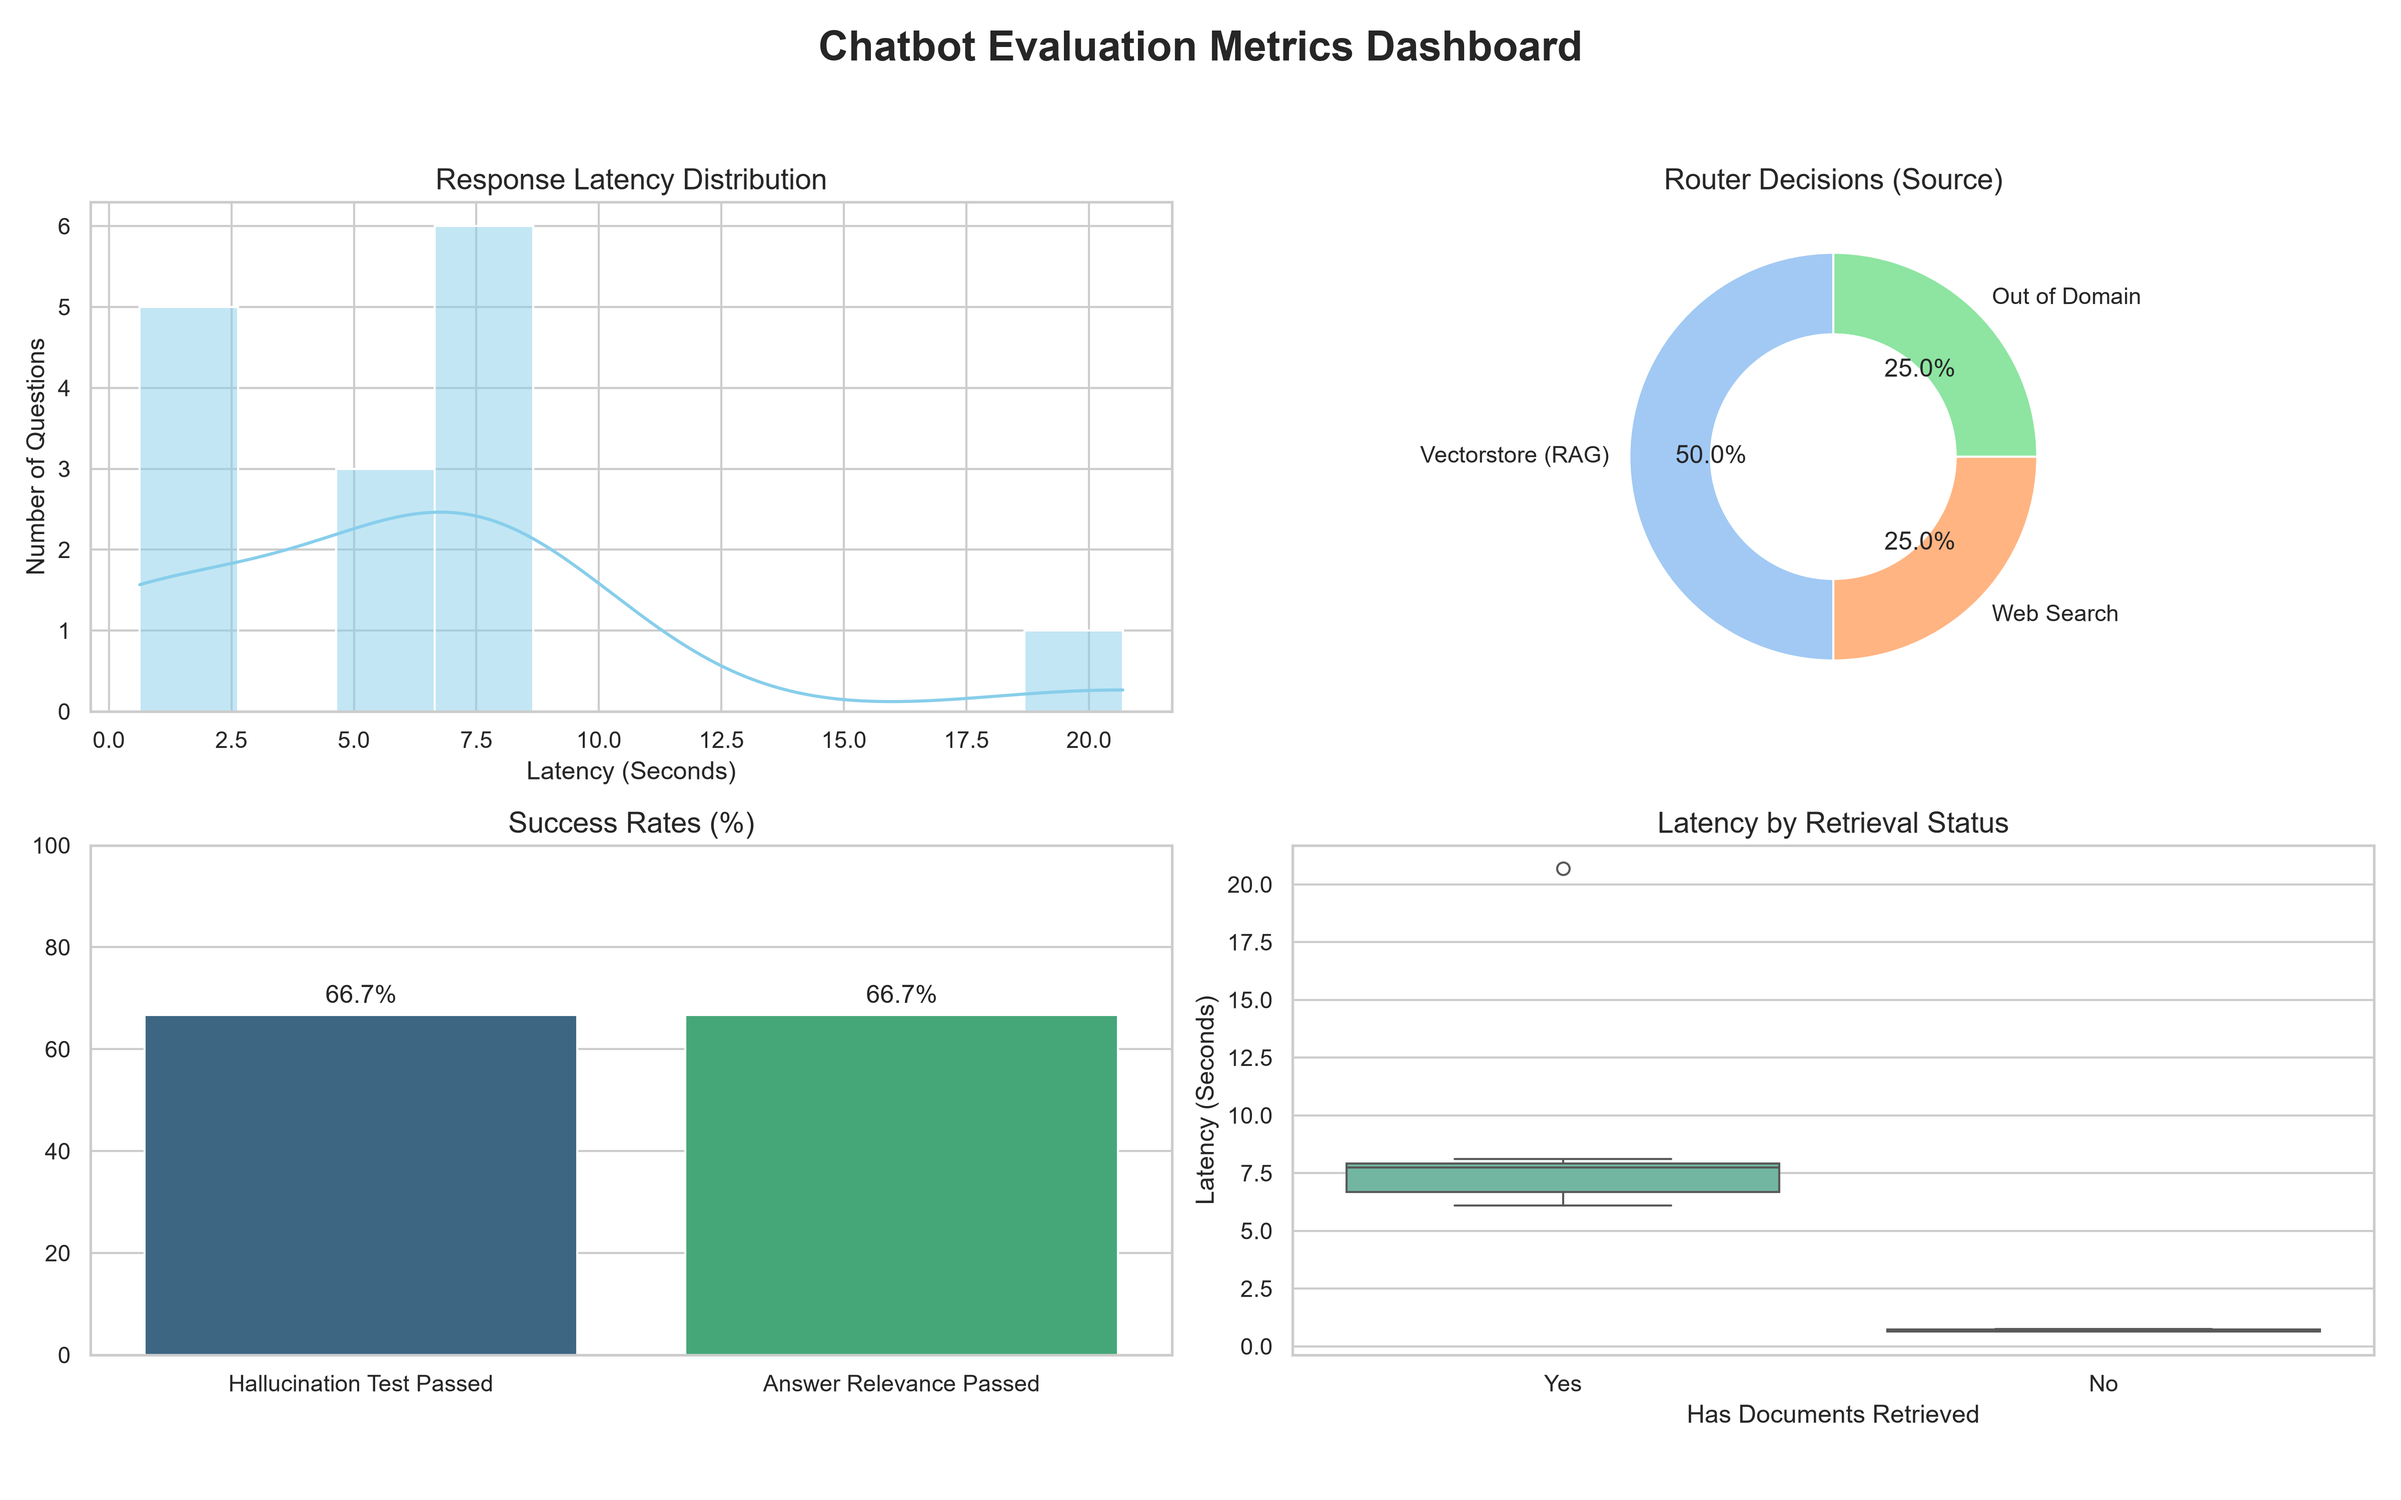
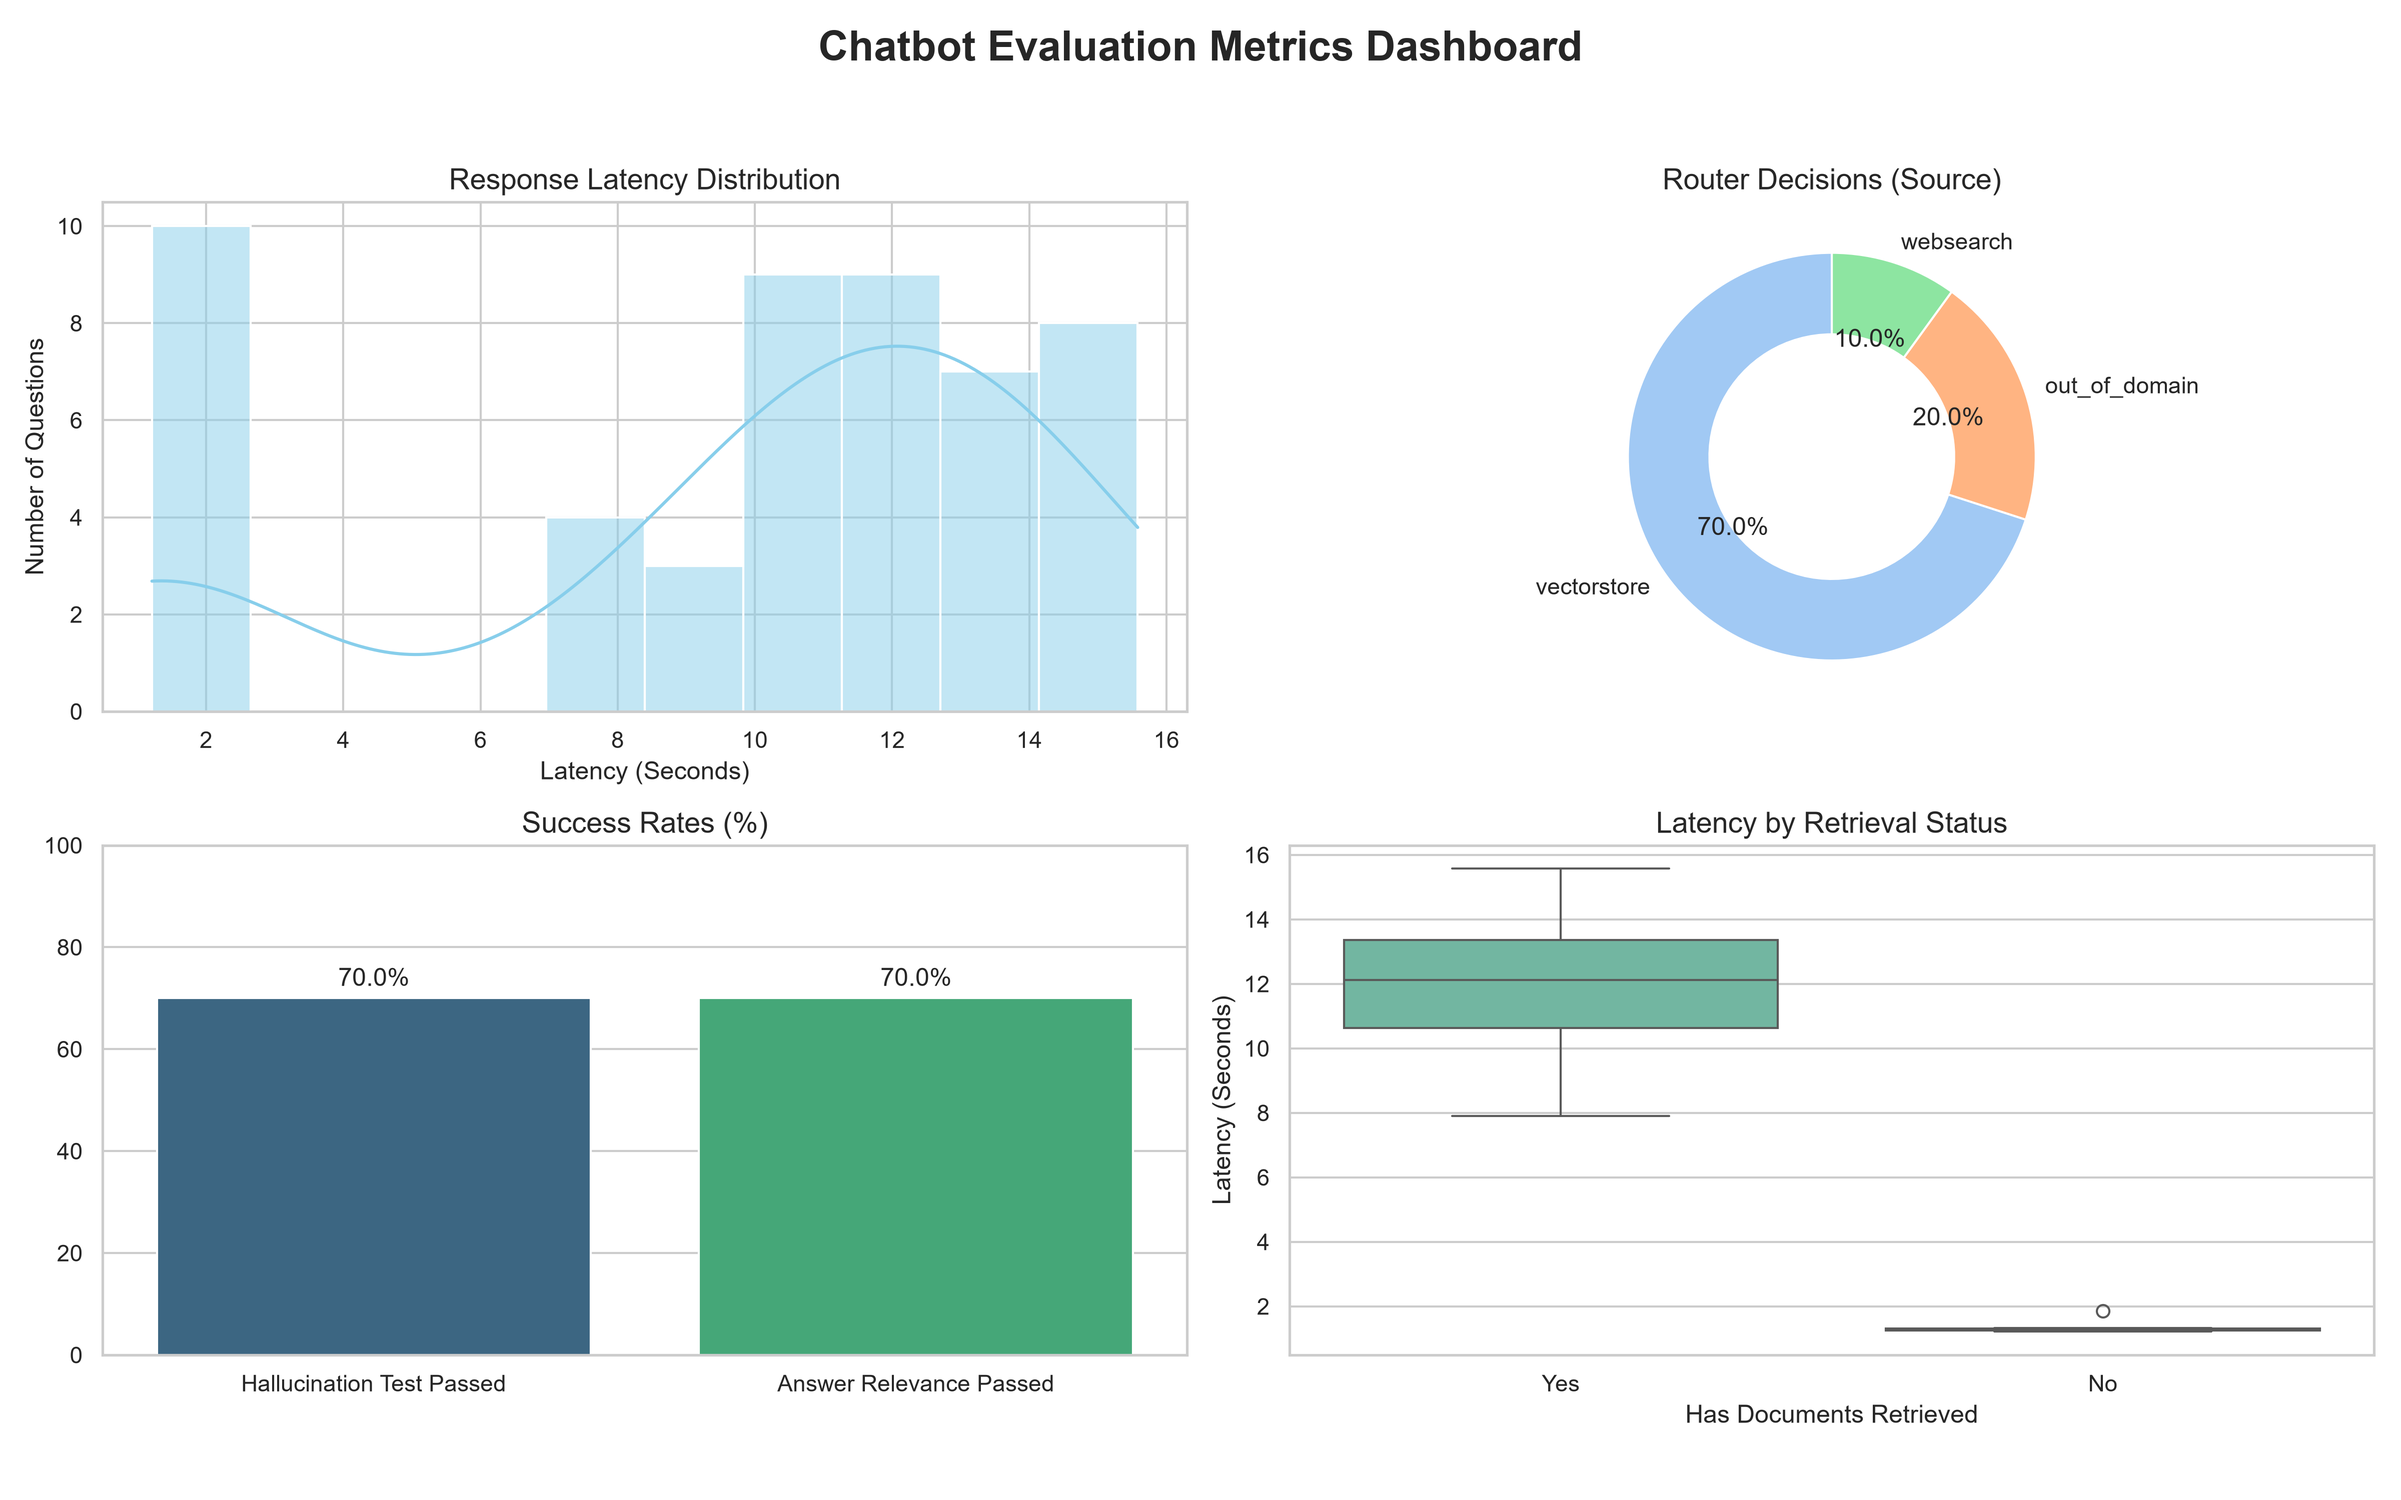
update metrics

diff --git a/evaluate_bot.py b/evaluate_bot.py
@@ -113,8 +113,8 @@ for i, q in enumerate(test_questions):
         
         # Selamlama/Muhabbet ve Kapsam Dışı kontrolü
         q_lower = q.lower().strip()
-        greetings = ["selam", "merhaba", "naber", "nasılsın", "günaydın", "iyi akşamlar", "hey", "hi", "kimsin", "kendinden bahset", "teşekkür"]
-        is_greeting_or_ood = any(word in q_lower for word in greetings) or len(q_lower) < 20 or route_decision == "out_of_domain"
+        greetings = ["selam", "merhaba", "naber", "nasılsın", "günaydın", "iyi akşamlar", "hey", "kimsin", "kendinden bahset", "teşekkür"]
+        is_greeting_or_ood = any(q_lower.startswith(word) for word in greetings) or route_decision == "out_of_domain"
         
         retrieval_score = "N/A"
         hallucination_score = "N/A"
